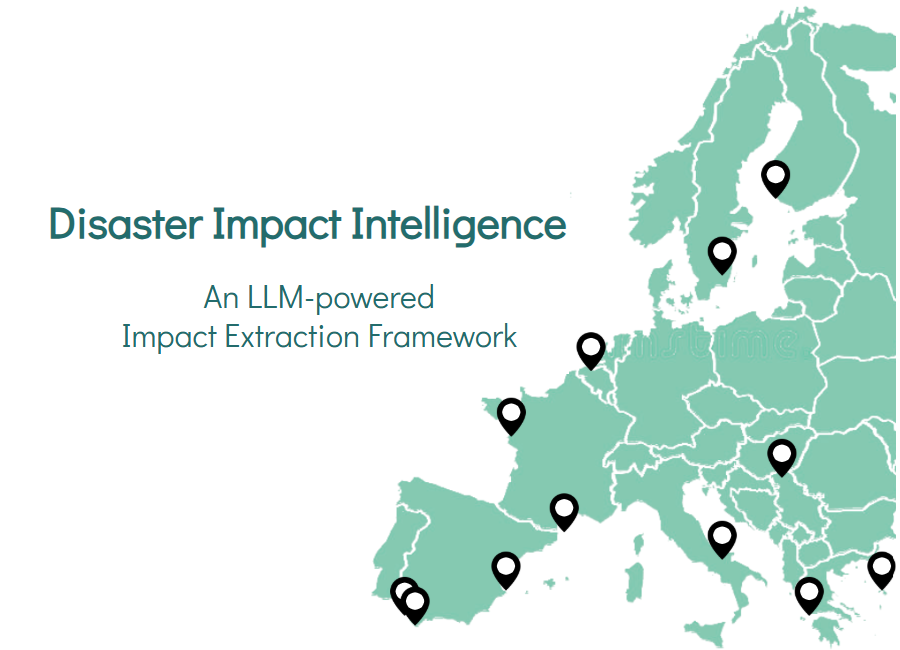
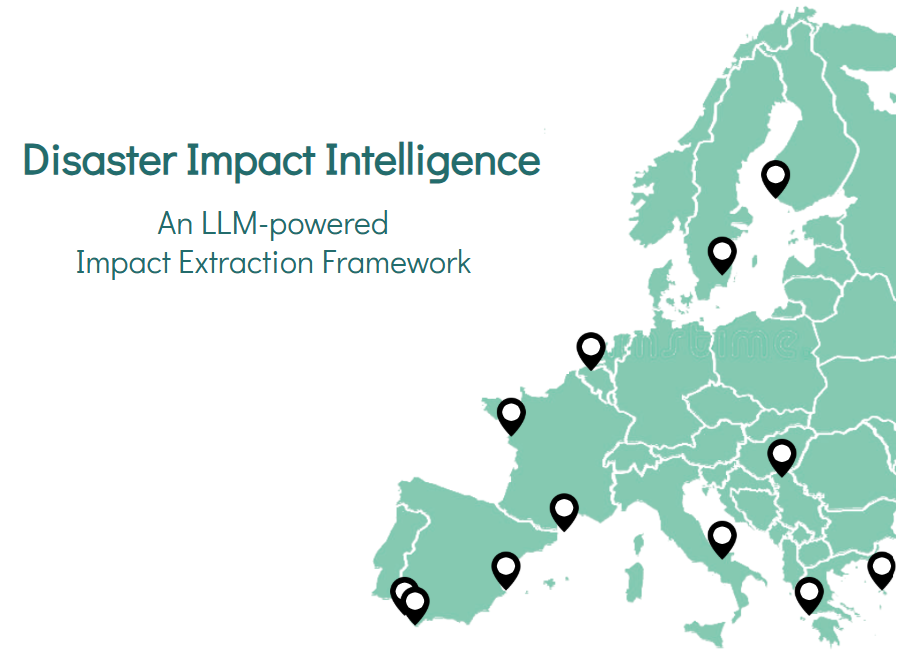
Updates project image appearance

Changed region(s): [[0.0, 0.2154, 0.6533, 0.5538]]

diff --git a/_layouts/post.html b/_layouts/post.html
@@ -6,7 +6,7 @@ layout: page
   <div class="container">
     <article class="project-article">
       {% if page.img %}
-      <img src="{{ '/img/projects/' | append: page.img | relative_url }}" class="img-responsive project-hero-image" alt="{{ page.alt | default: page.title }}">
+      <img src="{{ '/img/projects/' | append: page.img | relative_url }}?v=1" class="img-centered project-hero-image" alt="{{ page.alt | default: page.title }}">
       {% endif %}
 
       <div class="project-description">

diff --git a/_includes/projects.html b/_includes/projects.html
@@ -11,7 +11,7 @@
       {% for post in site.posts %}
       <div class="portfolio-flex-item portfolio-item">
         <a href="{{ post.url | relative_url }}" class="portfolio-link">
-          <img src="{{ '/img/projects/' | append: post.img | relative_url }}" class="img-responsive" alt="{{ post.alt }}">
+          <img src="{{ '/img/projects/' | append: post.img | relative_url }}?v=1" class="img-responsive" alt="{{ post.alt }}">
         </a>
       </div>
       {% endfor %}

diff --git a/_includes/css/main.css b/_includes/css/main.css
@@ -205,12 +205,18 @@ section.success {
     margin: 0 auto;
 }
 
-.project-hero-image {
+.project-page .project-hero-image {
+    display: block;
     width: 60%;
+    max-width: 100%;
     height: auto;
-    margin: 0 auto 3rem;
-    border: 1px solid rgba(44, 62, 80, .1);
-    border-radius: .75rem;
+    margin: 0 auto;
+    padding: 0;
+    border: 0;
+    border-radius: 0;
+    outline: 0;
+    box-shadow: none;
+    background: transparent;
 }
 
 .project-description {
